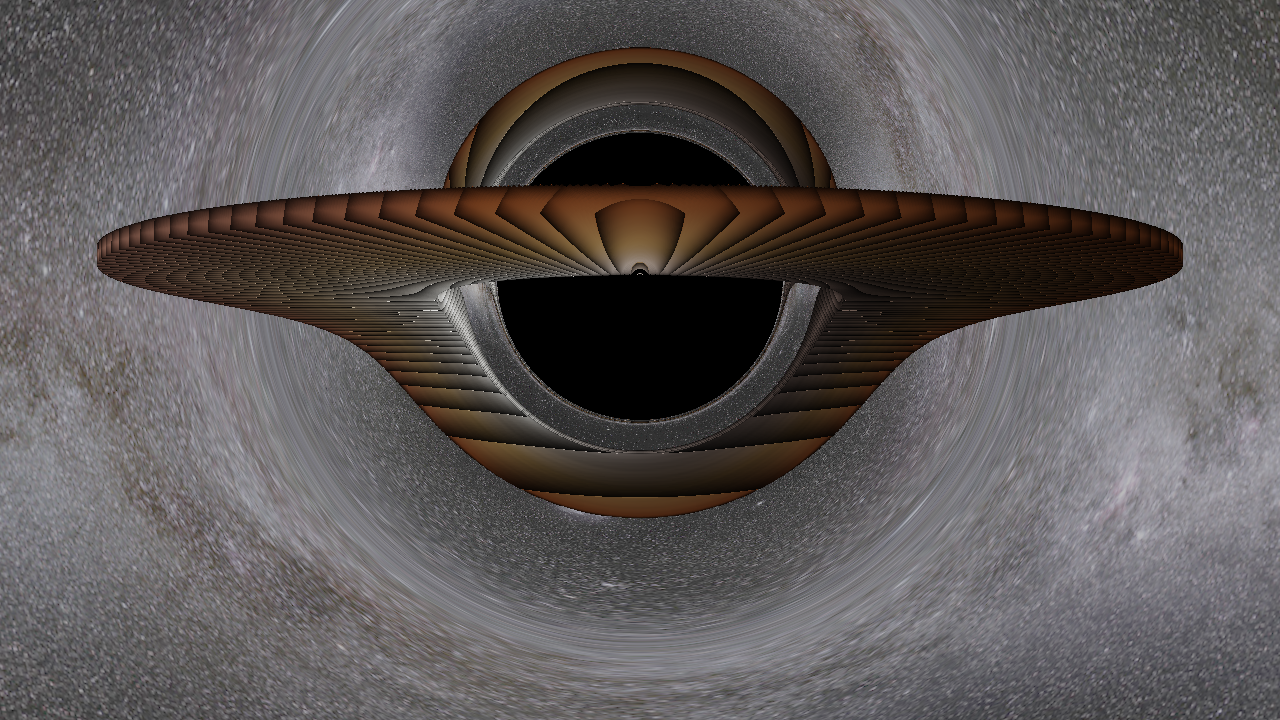
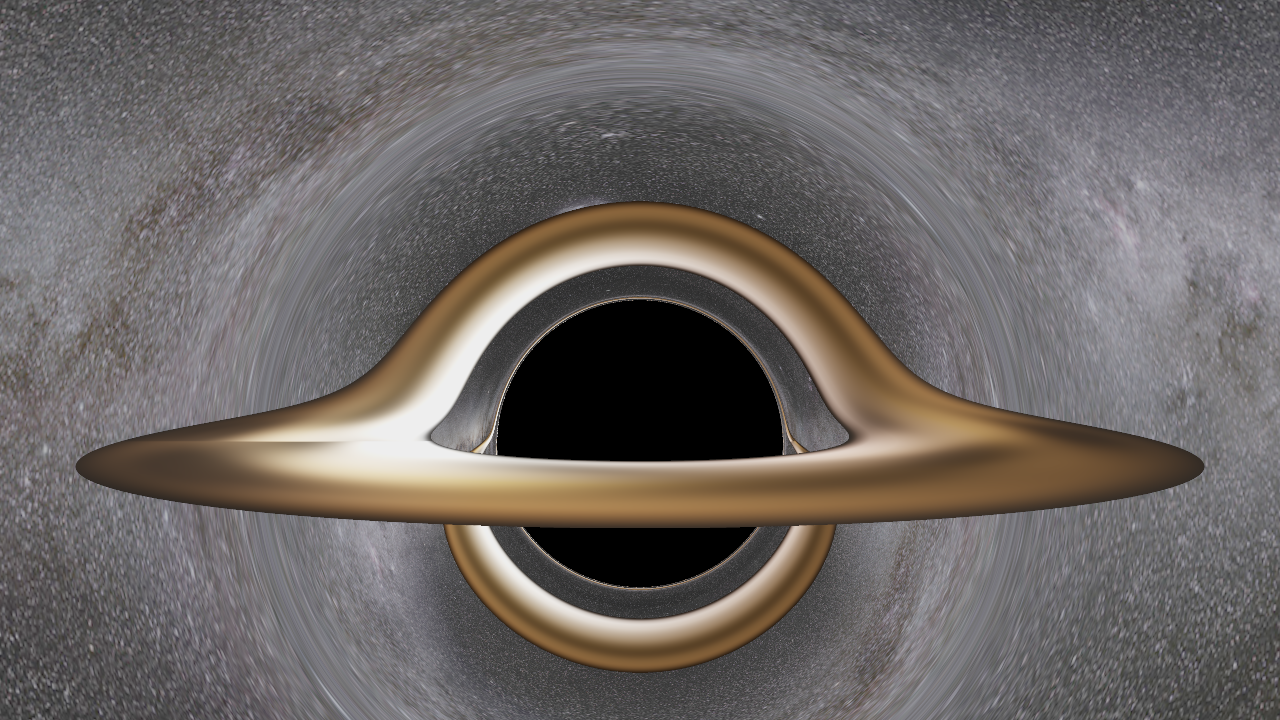
Improve accretion disk visuals in GPU black hole renderer
Overhaul disk texture, density, color, and glow shading for a more
realistic and visually rich accretion disk. Adjustments include:
- Richer FBM-based disk texture with spiral, shear, radial band, and wisp layers
- Brighter, warmer color palette with stronger inner-rim glow
- Improved gas density falloff and volume alpha compositing
- Better edge haze, filament, and thermal glow contributions
- Camera height and target adjusted for a cleaner viewing angle
- Disk outer radius expanded to 17.5, MSAA samples increased to 4x
- Updated render images

diff --git a/GPUPlanarBlackHoleVisual.py b/GPUPlanarBlackHoleVisual.py
@@ -9,20 +9,19 @@ from PIL import Image
 WIDTH = 1280
 HEIGHT = 720
 FOV_DEG = 45.0
-SAMPLES_PER_AXIS = 3
+SAMPLES_PER_AXIS = 4
 GEODESIC_STEPS = 3000
 PHI_MAX = 24.0 * np.pi
 EXPOSURE = 1.0
 
-CAMERA_POS = np.array([0.0, -32.0, 3.0], dtype="f4")
-CAMERA_TARGET = np.array([0.0, 0.0, 3.0], dtype="f4")
+CAMERA_POS = np.array([0.0, -32.0, 5.0], dtype="f4")
+CAMERA_TARGET = np.array([0.0, 0.0, 0.0], dtype="f4")
 CAMERA_WORLD_UP = np.array([0.0, 0.0, 1.0], dtype="f4")
 
 R_HORIZON = 2.0
 R_DISK_IN = 6.0
-R_DISK_OUT = 16.0
+R_DISK_OUT = 17.5
 DISK_HALF_THICKNESS = 0.24
-# DISK_HALF_THICKNESS = 0.24
 R_ESCAPE = 180.0
 
 BASE_DIR = Path(__file__).resolve().parent
@@ -303,19 +302,32 @@ float diskTexture(vec3 hitPoint) {
     float rho = length(hitPoint.xy);
     float phi = atan(hitPoint.y, hitPoint.x);
     float logR = log(max(rho, 1e-6));
+    vec2 angular = vec2(cos(phi), sin(phi));
 
-    vec2 diskCoord = vec2(0.72 * logR - 0.045 * phi, 0.18 * phi + 0.012 * rho);
+    vec2 diskCoord = vec2(
+        1.05 * logR + 0.42 * angular.x + 0.035 * rho,
+        0.34 * rho + 0.42 * angular.y
+    );
     float broad = fbm(diskCoord);
-    float spiral = 0.5 + 0.5 * sin(2.2 * phi - 4.8 * logR + 0.55 * broad);
+    float broad2 = fbm(diskCoord * 1.55 + vec2(2.4, -1.1));
+    float spiral = 0.5 + 0.5 * sin(2.0 * phi - 5.7 * logR + 1.35 * broad);
+    float shear = 0.5 + 0.5 * sin(5.0 * phi - 8.4 * logR + 0.95 * broad2);
+    float radialBand = 0.5 + 0.5 * sin(1.05 * rho + 2.0 * phi + 2.2 * broad2);
+    float wisp = smoothstep(0.42, 1.05, spiral + 0.55 * broad2);
 
     float innerRim = exp(-pow((rho - diskInner) / 1.85, 2.0));
-    float turbulence = 0.92 + 0.08 * (broad - 0.5) + 0.10 * spiral + 0.08 * innerRim;
-    return clamp(turbulence, 0.78, 1.18);
+    float turbulence = 0.54
+        + 0.22 * broad
+        + 0.34 * wisp
+        + 0.12 * shear
+        + 0.10 * radialBand
+        + 0.11 * innerRim;
+    return clamp(turbulence, 0.38, 1.70);
 }
 
 float diskRadialFeather(float rho) {
-    float inner = smoothstep(diskInner, diskInner + 1.8, rho);
-    float outer = 1.0 - smoothstep(diskInner + 3.4, diskOuter, rho);
+    float inner = smoothstep(diskInner, diskInner + 1.4, rho);
+    float outer = 1.0 - smoothstep(diskOuter - 3.2, diskOuter, rho);
     return inner * outer;
 }
 
@@ -329,7 +341,7 @@ float gasDensity(vec3 point) {
     float z = abs(point.z) / max(localHalfThickness, 1e-6);
     float verticalCore = exp(-3.1 * z * z);
     float warmAtmosphere = 0.18 * exp(-0.75 * z * z);
-    float radialFalloff = pow(diskInner / max(rho, diskInner), 2.35);
+    float radialFalloff = pow(diskInner / max(rho, diskInner), 1.65);
     float innerPileup = 1.0 + 0.85 * exp(-pow((rho - diskInner) / 1.4, 2.0));
 
     return diskRadialFeather(rho)
@@ -337,16 +349,16 @@ float gasDensity(vec3 point) {
         * innerPileup
         * diskTexture(point)
         * (verticalCore + warmAtmosphere)
-        * 1.18;
+        * 1.65;
 }
 
 vec3 diskColor(vec3 hitPoint, vec3 outgoingDir, float surfaceSign, float thicknessMix, float zBlend, float radialTaper) {
     float rho = length(hitPoint.xy);
     float t = clamp((rho - diskInner) / (diskOuter - diskInner), 0.0, 1.0);
 
-    vec3 inner = vec3(1.0, 0.985, 0.93);
-    vec3 mid = vec3(1.0, 0.58, 0.18);
-    vec3 outer = vec3(0.72, 0.13, 0.02);
+    vec3 inner = vec3(1.0, 1.0, 0.965);
+    vec3 mid = vec3(1.0, 0.80, 0.34);
+    vec3 outer = vec3(1.0, 0.44, 0.12);
 
     vec3 color;
     if (t < 0.45) {
@@ -355,8 +367,8 @@ vec3 diskColor(vec3 hitPoint, vec3 outgoingDir, float surfaceSign, float thickne
         color = mix(mid, outer, (t - 0.45) / 0.55);
     }
 
-    float brightness = 4.8 / pow(rho, 0.86);
-    float glow = 0.18 / max(rho - horizonRadius, 0.35);
+    float brightness = 6.2 / pow(rho, 0.84);
+    float glow = 0.32 / max(rho - horizonRadius, 0.35);
     float innerSharpen = 1.0 + 0.62 * exp(-pow((rho - diskInner) / 0.9, 2.0));
 
     vec3 velocity = diskTangentVelocity(hitPoint);
@@ -378,11 +390,12 @@ vec3 diskColor(vec3 hitPoint, vec3 outgoingDir, float surfaceSign, float thickne
         color = mix(color, vec3(1.0, 0.97, 0.9), shiftStrength);
     } else {
         float shiftStrength = min(1.0 - netShift, 0.7);
-        color = mix(color, vec3(0.75, 0.16, 0.03), shiftStrength);
+        color = mix(color, vec3(1.0, 0.46, 0.12), shiftStrength);
     }
 
     float surfaceFactor = surfaceSign >= 0.0 ? 1.04 : 0.88;
-    float textureFactor = diskTexture(hitPoint);
+    float rawTexture = diskTexture(hitPoint);
+    float textureFactor = 0.92 + 0.18 * smoothstep(0.78, 1.45, rawTexture);
     float thicknessFactor = (0.92 + 0.12 * thicknessMix) * (0.94 + 0.12 * radialTaper);
     float viewAngle = clamp(abs(outgoingDir.z), 0.0, 1.0);
     float opticalDepth = 0.55 + 1.4 * exp(-pow((rho - diskInner) / 2.8, 2.0)) + 0.35 * textureFactor;
@@ -463,12 +476,21 @@ vec4 shadeGasDisk(DiskHit hit, vec3 outgoingDir) {
     float density = gasDensity(hit.point);
     float turbulence = diskTexture(hit.point);
     float radialFeather = diskRadialFeather(rho);
+    float phi = atan(hit.point.y, hit.point.x);
 
     float innerHeat = exp(-pow((rho - diskInner) / 1.7, 2.0));
+    vec3 thermalColor = mix(
+        vec3(1.0, 0.48, 0.12),
+        vec3(1.0, 0.97, 0.72),
+        clamp(0.25 + 0.75 * innerHeat, 0.0, 1.0)
+    );
     float surfaceDensity = smoothstep(0.05, 1.15, density) * radialFeather;
-    float alpha = surfaceDensity * (0.20 + 0.20 * innerHeat);
-    alpha *= 0.92 + 0.08 * turbulence;
-    alpha = clamp(alpha, 0.0, 0.34);
+    float wispMask = smoothstep(0.62, 1.36, turbulence);
+    float alpha = surfaceDensity * (0.14 + 0.18 * innerHeat);
+    alpha *= 0.55 + 0.55 * wispMask;
+    float edgeHaze = radialFeather * (1.0 - smoothstep(diskOuter - 2.5, diskOuter, rho));
+    alpha = max(alpha, 0.008 * edgeHaze * (0.35 + 0.65 * wispMask));
+    alpha = clamp(alpha, 0.0, 0.28);
 
     vec3 emission = diskColor(
         hit.point,
@@ -479,12 +501,26 @@ vec4 shadeGasDisk(DiskHit hit, vec3 outgoingDir) {
         hit.radialTaper
     );
 
-    float hotFilament = smoothstep(0.98, 1.16, turbulence);
+    float hotFilament = smoothstep(0.90, 1.34, turbulence);
     float thermalGlow = 0.85 + 0.52 * density + 0.28 * hotFilament + 0.58 * innerHeat;
     emission *= thermalGlow;
 
-    float filament = 0.78 + 0.22 * sin(2.4 * atan(hit.point.y, hit.point.x) - 5.1 * log(max(rho, 1e-6)) + 0.7 * turbulence);
-    vec3 gasGlow = emission * alpha * (0.08 + 4.2 * alpha) * filament * 2.0;
+    float filamentPhase = 0.5 + 0.5 * sin(2.0 * phi - 5.1 * log(max(rho, 1e-6)) + 0.7 * turbulence);
+    float filament = 0.72 + 0.42 * smoothstep(0.35, 1.0, filamentPhase + 0.35 * wispMask);
+    vec3 gasGlow = emission * alpha * (0.55 + 3.8 * alpha + 1.05 * hotFilament) * filament * (1.25 + 0.95 * wispMask);
+    gasGlow += emission * edgeHaze * (0.010 + 0.050 * hotFilament) * (0.25 + 0.75 * wispMask);
+    gasGlow += edgeHaze
+        * vec3(1.0, 0.55, 0.16)
+        * (0.08 + 0.82 * hotFilament)
+        * (0.45 + 0.55 * filament);
+    gasGlow += radialFeather
+        * thermalColor
+        * (0.080 + 0.23 * wispMask)
+        * (0.25 + 0.75 * surfaceDensity);
+    gasGlow += thermalColor
+        * radialFeather
+        * (0.040 + 0.12 * hotFilament)
+        * (0.35 + 0.65 * innerHeat);
     return vec4(clamp(gasGlow, 0.0, 6.0), alpha);
 }
 
@@ -601,7 +637,7 @@ vec3 traceRay(vec3 rayOrigin, vec3 rayDir) {
         DiskHit hit;
         if (segmentDiskIntersection(prevPos, pos, hit)) {
             vec4 diskVolume = shadeGasDisk(hit, outgoingDir);
-            if (diskVolume.a < 0.025) {
+            if (diskVolume.a < 0.001) {
                 prevPos = pos;
                 prevTravelDir = outgoingDir;
                 u = nextState.x;
@@ -610,12 +646,11 @@ vec3 traceRay(vec3 rayOrigin, vec3 rayDir) {
                 continue;
             }
 
-            vec3 sharpBackground = backgroundColor(outgoingDir);
             vec3 smoothBackground = smoothBackgroundColor(outgoingDir);
-            float gasMask = smoothstep(0.04, 0.20, diskVolume.a);
-            vec3 backgroundBehindGas = mix(sharpBackground, smoothBackground, gasMask);
+            float gasMask = smoothstep(0.015, 0.20, diskVolume.a);
+            vec3 backgroundBehindGas = smoothBackground;
             float transmission = pow(1.0 - diskVolume.a, 1.15);
-            return clamp(diskVolume.rgb + backgroundBehindGas * transmission * (0.35 + 0.45 * (1.0 - gasMask)), 0.0, 6.0);
+            return clamp(diskVolume.rgb + backgroundBehindGas * transmission * (0.58 - 0.22 * gasMask), 0.0, 6.0);
         }
 
         if (nextU >= 1.0 / horizonRadius || r <= horizonRadius) {
